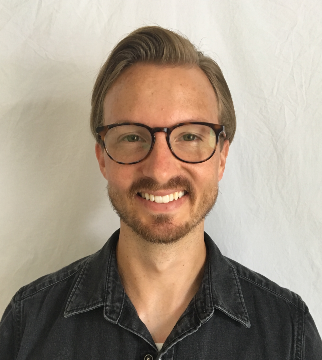
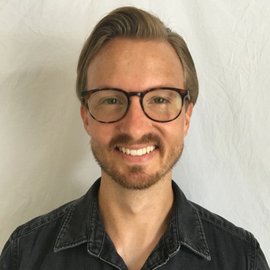
adds updates to starter code/solution

diff --git a/blog_project/index.html b/blog_project/index.html
@@ -1,6 +1,7 @@
 <!DOCTYPE html>
 <head>
   <link rel="stylesheet" href="https://cdnjs.cloudflare.com/ajax/libs/normalize/8.0.0/normalize.min.css">
+  <link href="https://fonts.googleapis.com/css?family=Indie+Flower" rel="stylesheet">
   <link rel="stylesheet" href="./css/style.css"/>
 </head>
 <body>
@@ -8,13 +9,15 @@
     <img src="./imgs/profile_pic.png">
     <h1>Daniel's Coding Blog</h1>
     <ul>
-      <li><a href="#">About Me</a></li>
-      <li><a href="#">Contact Me</a></li>
-      <li><a href="#">My Favorite Places</a></li>
+      <li><a href="./about.html">About Me</a></li>
+      <li><a href="#footer-links">Contact Me</a></li>
+      <li>
+        <a href="https://developer.mozilla.org/en-US/">My Favorite Resources</a>
+      </li>
     </ul>
   </header>
   <article>
-    <h2>Lorem ipsum dolor sit amet</h2>
+    <h2><b>Lorem ipsum dolor sit amet</b></h2>
     <p>
     Sed ut perspiciatis unde omnis iste natus error sit voluptatem accusantium doloremque laudantium, totam rem aperiam,
     eaque ipsa quae ab illo inventore veritatis et quasi architecto beatae vitae dicta sunt explicabo. Nemo enim ipsam
@@ -25,10 +28,10 @@
     consequatur? Quis autem vel eum iure reprehenderit qui in ea voluptate velit esse quam nihil molestiae consequatur, vel
     illum qui dolorem eum fugiat quo voluptas nulla pariatur?
     </p>
-    <button>Like &#128077;</button>
+    <button>Like</button>
   </article>
   <article>
-    <h2>Lorem ipsum dolor sit amet</h2>
+    <h2><b>Lorem ipsum dolor sit amet</b></h2>
     <p>
     Sed ut perspiciatis unde omnis iste natus error sit voluptatem accusantium doloremque laudantium, totam rem aperiam,
     eaque ipsa quae ab illo inventore veritatis et quasi architecto beatae vitae dicta sunt explicabo. Nemo enim ipsam
@@ -39,10 +42,10 @@
     consequatur? Quis autem vel eum iure reprehenderit qui in ea voluptate velit esse quam nihil molestiae consequatur, vel
     illum qui dolorem eum fugiat quo voluptas nulla pariatur?
     </p>
-    <button>Like &#128077;</button>
+    <button>Like</button>
   </article>
   <article>
-    <h2>Lorem ipsum dolor sit amet</h2>
+    <h2><b>Lorem ipsum dolor sit amet</b></h2>
     <p>
     Sed ut perspiciatis unde omnis iste natus error sit voluptatem accusantium doloremque laudantium, totam rem aperiam,
     eaque ipsa quae ab illo inventore veritatis et quasi architecto beatae vitae dicta sunt explicabo. Nemo enim ipsam
@@ -53,16 +56,32 @@
     consequatur? Quis autem vel eum iure reprehenderit qui in ea voluptate velit esse quam nihil molestiae consequatur, vel
     illum qui dolorem eum fugiat quo voluptas nulla pariatur?
     </p>
-    <button>Like &#128077;</button>
+    <button>Like</button>
   </article>
+  <footer>
+    <ul id='footer-links'>
+      <li>
+        <a href="mailto:daniel@danieljs.io">Email Me</a>
+      </li>
+      <li>
+        <a href="">LinkedIN</a>
+      </li>
+      <li>
+        <a href="">Twitter</a>
+      </li>
+    </ul>
+<p>Copyright <span id="date"></span></p>
+  </footer>
 
   <script
   src="https://code.jquery.com/jquery-3.3.1.min.js"
   integrity="sha256-FgpCb/KJQlLNfOu91ta32o/NMZxltwRo8QtmkMRdAu8="
   crossorigin="anonymous">
   </script>
-  <script>
 
+  <script>
+    let date = new Date()
+    document.getElementById('date').innerHTML = date.getUTCFullYear()
     // This is the jQuery Way
     // $("button").click(function(){
     //   $(this)
@@ -75,8 +94,13 @@
     var button = document.querySelectorAll('button')
     button.forEach((b) => {
       b.addEventListener('click', function(){
-      this.innerHTML ="liked &#128077;"
-      this.setAttribute('style', 'background-color: #3B5998; color: white;')
+      if(this.innerHTML === "Like"){
+          this.innerHTML = "Liked &#128077;"
+          this.setAttribute('style', 'background-color: #3B5998; color: white;')
+      } else {
+          this.innerHTML = "Like"
+          this.setAttribute('style', 'background-color: white; color: black;')
+      }
       })
     })
     }

diff --git a/blog_project/about.html b/blog_project/about.html
@@ -1,0 +1,58 @@
+<!DOCTYPE html>
+
+<head>
+    <link rel="stylesheet" href="https://cdnjs.cloudflare.com/ajax/libs/normalize/8.0.0/normalize.min.css">
+    <link rel="stylesheet" href="./css/style.css" />
+</head>
+
+<body>
+    <header>
+        <img src="./imgs/profile_pic.png">
+        <h1>Daniel's Coding Blog</h1>
+        <ul>
+            <li><a href="./index.html">Back Home</a></li>
+            <li><a href="#footer-links">Contact Me</a></li>
+            <li>
+                <a href="https://developer.mozilla.org/en-US/">My Favorite Resources</a>
+            </li>
+        </ul>
+    </header>
+    <article>
+        <h2>About the Author</h2>
+        <p>
+            Sed ut perspiciatis unde omnis iste natus error sit voluptatem accusantium doloremque laudantium, totam rem
+            aperiam,
+            eaque ipsa quae ab illo inventore veritatis et quasi architecto beatae vitae dicta sunt explicabo. Nemo
+            enim ipsam
+            voluptatem quia voluptas sit aspernatur aut odit aut fugit, sed quia consequuntur magni dolores eos qui
+            ratione
+            voluptatem sequi nesciunt. Neque porro quisquam est, qui dolorem ipsum quia dolor sit amet, consectetur,
+            adipisci
+            velit, sed quia non numquam eius modi tempora incidunt ut labore et dolore magnam aliquam quaerat
+            voluptatem. Ut enim
+            ad minima veniam, quis nostrum exercitationem ullam corporis suscipit laboriosam, nisi ut aliquid ex ea
+            commodi
+            consequatur? Quis autem vel eum iure reprehenderit qui in ea voluptate velit esse quam nihil molestiae
+            consequatur, vel
+            illum qui dolorem eum fugiat quo voluptas nulla pariatur?
+        </p>
+    </article>
+    <footer>
+        <ul id='footer-links'>
+            <li>
+                <a href="mailto:daniel@danieljs.io">Email Me</a>
+            </li>
+            <li>
+                <a href="">LinkedIN</a>
+            </li>
+            <li>
+                <a href="">Twitter</a>
+            </li>
+        </ul>
+        <p>Copyright <span id="date"></span></p>
+    </footer>
+    <script>
+        let date = new Date()
+        document.getElementById('date').innerHTML = date.getUTCFullYear()
+    </script>
+</body>

diff --git a/blog_project/css/style.css b/blog_project/css/style.css
@@ -3,24 +3,25 @@ body{
 }
 header {
   text-align: center;
-  background: url('../imgs/dallas_skyline.jpg');
+  background: url('../imgs/background.jpg');
   background-size: cover;
   color: white;
 }
 a {
   color: white;
   text-decoration: none;
+  font-size: 25px;
 }
 h1 {
   font-size: 70px;
   padding: 20px;
   background-color: black;
-  text-shadow: 2px 2px red;
+  text-shadow: 2px 2px greenyellow;
 }
 img {
-  margin: 40px 0px 0px 0px;
+  margin-top: 40px;
   border: 7px solid black;
-  border-radius: 20px;
+  border-radius: 50%;
 }
 ul {
   padding: 10px;
@@ -28,12 +29,32 @@ ul {
 }
 li {
   display: inline;
-  padding: 0px 10px 0px 10px;
+  padding-right: 20px;
 }
 article {
-  max-width: 500px;
+  max-width: 800px;
   padding: 20px;
   margin: 0 auto;
+}
+
+h2 {
+  font-size: 30px;
+  text-align: center;
+}
+article p {
+  font-size: 25px;
+}
+footer {
+  margin-top: 10%;
+  margin-bottom: 5%; 
+  text-align: center;
+}
+#footer-links {
+  background-color: white;
+}
+
+#footer-links a {
+  color: black;
 }
 button{
   padding: 5px;
